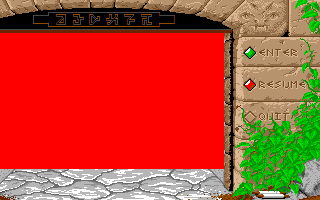
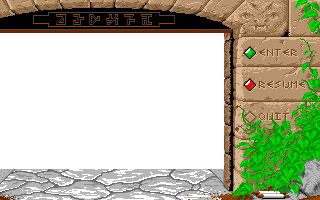
2026-07-29 door done ms

diff --git a/Assets/Scripts/Rendering/DungeonRenderer.cs b/Assets/Scripts/Rendering/DungeonRenderer.cs
@@ -283,87 +283,11 @@ namespace DM.Rendering
 
     private void DrawDungeonFrame()
     {
-      if (showEntranceScreen)
-      {
-        visibleWallPieces.Clear();
-
-        Clear(
-            new Color32(
-                0,
-                0,
-                0,
-                255
-            )
-        );
-
-        Texture2D entrance =
-            graphics != null
-                ? graphics.EntranceDoorClosedOutside
-                : null;
-
-        if (entrance == null)
-        {
-          Debug.LogWarning(
-              "DungeonRenderer: EntranceDoorClosedOutside " +
-              "texture is missing; showing black entrance screen."
-          );
-        }
-        else
-        {
-          Blit(entrance, 0, 0);
-        }
-
-        Texture2D entranceDoorLeft =
-            graphics != null
-                ? graphics.EntranceDoorClosedLeft
-                : null;
-
-        if (entranceDoorLeft == null)
-        {
-          Debug.LogWarning(
-              "DungeonRenderer: EntranceDoorClosedLeft " +
-              "texture is missing."
-          );
-        }
-        else
-        {
-          Blit(
-              entranceDoorLeft,
-              GetEntranceDoorLeftDrawX(),
-              GetEntranceDoorLeftDrawY()
-          );
-        }
-
-        Texture2D entranceDoorRight =
-            graphics != null
-                ? graphics.EntranceDoorClosedRight
-                : null;
-
-        if (entranceDoorRight == null)
-        {
-          Debug.LogWarning(
-              "DungeonRenderer: EntranceDoorClosedRight " +
-              "texture is missing."
-          );
-        }
-        else
-        {
-          Blit(
-              entranceDoorRight,
-              GetEntranceDoorRightDrawX(),
-              GetEntranceDoorRightDrawY()
-          );
-        }
-
-        ApplyFrameBuffer();
-        return;
-      }
-
       Clear(
           new Color32(
-              255,
               0,
-              255,
+              0,
+              0,
               255
           )
       );
@@ -448,7 +372,72 @@ namespace DM.Rendering
         );
       }
 
+      if (showEntranceScreen)
+        DrawEntranceOverlay();
+
       ApplyFrameBuffer();
+    }
+
+    private void DrawEntranceOverlay()
+    {
+      Texture2D entrance =
+          graphics != null
+              ? graphics.EntranceDoorClosedOutside
+              : null;
+
+      if (entrance == null)
+      {
+        Debug.LogWarning(
+            "DungeonRenderer: EntranceDoorClosedOutside " +
+            "texture is missing."
+        );
+      }
+      else
+      {
+        Blit(entrance, 0, 0);
+      }
+
+      Texture2D entranceDoorLeft =
+          graphics != null
+              ? graphics.EntranceDoorClosedLeft
+              : null;
+
+      if (entranceDoorLeft == null)
+      {
+        Debug.LogWarning(
+            "DungeonRenderer: EntranceDoorClosedLeft " +
+            "texture is missing."
+        );
+      }
+      else
+      {
+        Blit(
+            entranceDoorLeft,
+            GetEntranceDoorLeftDrawX(),
+            GetEntranceDoorLeftDrawY()
+        );
+      }
+
+      Texture2D entranceDoorRight =
+          graphics != null
+              ? graphics.EntranceDoorClosedRight
+              : null;
+
+      if (entranceDoorRight == null)
+      {
+        Debug.LogWarning(
+            "DungeonRenderer: EntranceDoorClosedRight " +
+            "texture is missing."
+        );
+      }
+      else
+      {
+        Blit(
+            entranceDoorRight,
+            GetEntranceDoorRightDrawX(),
+            GetEntranceDoorRightDrawY()
+        );
+      }
     }
 
     private bool ShouldDrawPiece(ViewportPiece piece)
